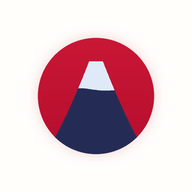
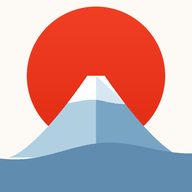
Selma peut joindre ses billets, et nouvelle icône
Chaque billet accepte des images et des PDF. Les fichiers vont dans
IndexedDB — un PDF ne tient pas dans localStorage — donc ils
survivent à la fermeture de la page : elle peut déposer au fil des
semaines et tout envoyer d'un coup.

Le bouton d'envoi emporte les fichiers avec le récapitulatif via le
partage iOS, après avoir vérifié que le téléphone sait le faire ;
sinon il envoie le texte seul en le disant.

Icône : le Fuji bleu et sa neige devant le soleil rouge, dessiné
pour l'occasion.

diff --git a/selma.html b/selma.html
@@ -76,6 +76,22 @@ h2.sec{display:flex;align-items:center;gap:11px;font-family:var(--serif);font-si
 .choix button[data-v="oui"][aria-pressed="true"]{background:linear-gradient(135deg,var(--matcha),#8FAE7C)}
 .choix button[data-v="non"][aria-pressed="true"]{background:linear-gradient(135deg,var(--momiji),var(--kaki))}
 .choix button[data-v="?"][aria-pressed="true"]{background:linear-gradient(135deg,var(--ai),var(--ai2))}
+.joindre{display:inline-flex;align-items:center;gap:7px;margin-top:11px;font:600 13px var(--sans);
+  padding:9px 14px;border-radius:999px;border:1px dashed var(--line);background:var(--paper2);
+  color:var(--ai2);cursor:pointer;transition:transform .18s var(--ease)}
+.joindre:active{transform:scale(.95)}
+.joindre svg{width:14px;height:14px}
+.fichiers{display:flex;flex-direction:column;gap:6px;margin-top:10px}
+.fichiers:empty{display:none}
+.fichier{display:flex;align-items:center;gap:10px;font-size:12.5px;background:var(--line2);
+  border-radius:12px;padding:8px 10px}
+.fichier .vig{width:32px;height:32px;border-radius:8px;flex:none;object-fit:cover;display:block}
+.fichier .pdf{width:32px;height:32px;border-radius:8px;flex:none;display:grid;place-items:center;
+  background:var(--momiji);color:#fff;font:700 9.5px var(--sans)}
+.fichier .nom{flex:1;min-width:0;overflow:hidden;text-overflow:ellipsis;white-space:nowrap;color:var(--ink)}
+.fichier .po{flex:none;color:var(--mute);font-size:11.5px}
+.fichier button{flex:none;background:none;border:0;color:var(--mute);cursor:pointer;
+  font:400 19px/1 var(--sans);padding:0 3px}
 textarea{width:100%;margin-top:10px;font:400 13.5px/1.5 var(--sans);color:var(--ink);background:var(--paper2);
   border:1px solid var(--line);border-radius:13px;padding:10px 12px;resize:vertical;min-height:40px}
 textarea::placeholder{color:var(--mute)}
@@ -175,17 +191,66 @@ textarea:focus{outline:2px solid color-mix(in srgb,var(--ai2) 45%,transparent);o
     {id:'p12', q:"Le voyage se termine bien le 3 novembre ?", d:"Stippl affiche le voyage jusqu'au 6 novembre."}
   ];
 
+  // Un PDF ne tient pas dans localStorage : les pièces jointes vont dans IndexedDB,
+  // qui garde de vrais fichiers et survit à la fermeture de la page.
+  var BASE = null, FICHIERS = [], VIGNETTES = {};
+  function base() {
+    if (BASE) return Promise.resolve(BASE);
+    return new Promise(function (ok, ko) {
+      var r = indexedDB.open('japon-billets', 1);
+      r.onupgradeneeded = function () { r.result.createObjectStore('f', {keyPath: 'id'}); };
+      r.onsuccess = function () { BASE = r.result; ok(BASE); };
+      r.onerror = function () { ko(r.error); };
+    });
+  }
+  function coffre(mode) {
+    return base().then(function (d) { return d.transaction('f', mode).objectStore('f'); });
+  }
+  function ajouterFichier(billet, f) {
+    return coffre('readwrite').then(function (c) {
+      return new Promise(function (ok, ko) {
+        var r = c.add({id: billet + '|' + Date.now() + '|' + Math.random().toString(36).slice(2, 7),
+                       billet: billet, nom: f.name, type: f.type, taille: f.size, blob: f});
+        r.onsuccess = function () { ok(); }; r.onerror = function () { ko(r.error); };
+      });
+    });
+  }
+  function listerFichiers() {
+    return coffre('readonly').then(function (c) {
+      return new Promise(function (ok) { var r = c.getAll(); r.onsuccess = function () { ok(r.result || []); }; r.onerror = function () { ok([]); }; });
+    }).catch(function () { return []; });
+  }
+  function retirerFichier(id) {
+    return coffre('readwrite').then(function (c) {
+      return new Promise(function (ok) { var r = c.delete(id); r.onsuccess = ok; r.onerror = ok; });
+    });
+  }
+  var poids = function (o) { return o < 1024 ? o + ' o' : o < 1048576 ? Math.round(o/1024) + ' Ko' : (o/1048576).toFixed(1) + ' Mo'; };
+  var pieces = function (id) { return FICHIERS.filter(function (f) { return f.billet === id; }); };
+
   var etat = {};
   try { etat = JSON.parse(localStorage.getItem(CLE) || '{}') || {}; } catch (e) { etat = {}; }
   var garder = function () { try { localStorage.setItem(CLE, JSON.stringify(etat)); } catch (e) {} };
 
   function rendre() {
     $('#billets').innerHTML = BILLETS.map(function (b) {
-      var ok = etat[b.id] === 'oui';
+      var jointes = pieces(b.id), ok = etat[b.id] === 'oui' || jointes.length > 0;
+      var liste = jointes.map(function (f) {
+        var vig = /^image\//.test(f.type || '')
+          ? '<img class="vig" alt="" src="' + (VIGNETTES[f.id] || '') + '">'
+          : '<span class="pdf">PDF</span>';
+        return '<div class="fichier">' + vig + '<span class="nom">' + esc(f.nom) + '</span>' +
+          '<span class="po">' + poids(f.taille) + '</span>' +
+          '<button type="button" data-retirer="' + esc(f.id) + '" aria-label="Retirer">×</button></div>';
+      }).join('');
       return '<div class="carte' + (ok ? ' fait' : '') + '" data-c="' + b.id + '">' +
         '<h3>' + esc(b.titre) + '</h3><div class="quand">' + esc(b.quand) + '</div>' +
-        '<div class="choix"><button type="button" data-id="' + b.id + '" data-v="oui" aria-pressed="' + ok + '">Je l’ai</button>' +
-        '<button type="button" data-id="' + b.id + '" data-v="non" aria-pressed="' + (etat[b.id] === 'non') + '">Pas encore</button></div></div>';
+        '<div class="choix"><button type="button" data-id="' + b.id + '" data-v="oui" aria-pressed="' + (etat[b.id] === 'oui') + '">Je l’ai</button>' +
+        '<button type="button" data-id="' + b.id + '" data-v="non" aria-pressed="' + (etat[b.id] === 'non') + '">Pas encore</button></div>' +
+        '<label class="joindre"><input type="file" accept="image/*,application/pdf" multiple hidden data-pour="' + b.id + '">' +
+        '<svg viewBox="0 0 24 24" fill="none" stroke="currentColor" stroke-width="2.1" stroke-linecap="round"><path d="M12 5.5v13M5.5 12h13"/></svg>' +
+        (jointes.length ? 'Ajouter un autre fichier' : 'Joindre le billet') + '</label>' +
+        '<div class="fichiers">' + liste + '</div></div>';
     }).join('') || '<div class="carte"><h3>Aucun billet à suivre pour l’instant.</h3></div>';
 
     $('#points').innerHTML = POINTS.map(function (p) {
@@ -201,7 +266,7 @@ textarea:focus{outline:2px solid color-mix(in srgb,var(--ai2) 45%,transparent);o
     }).join('');
 
     var total = BILLETS.length + POINTS.length;
-    var faits = BILLETS.filter(function (b) { return etat[b.id]; }).length +
+    var faits = BILLETS.filter(function (b) { return etat[b.id] || pieces(b.id).length; }).length +
                 POINTS.filter(function (p) { return p.libre ? (etat[p.id + '-n'] || '').trim() : etat[p.id]; }).length;
     $('#barre').style.width = total ? (faits / total * 100) + '%' : '0';
     $('#compte').innerHTML = '<b>' + faits + '</b> sur ' + total + ' renseigné' + (faits > 1 ? 's' : '');
@@ -216,6 +281,22 @@ textarea:focus{outline:2px solid color-mix(in srgb,var(--ai2) 45%,transparent);o
     garder();
     var y = window.scrollY; rendre(); window.scrollTo(0, y);
   });
+  document.addEventListener('change', function (ev) {
+    var inp = ev.target.closest('input[type=file][data-pour]');
+    if (!inp || !inp.files || !inp.files.length) return;
+    var pour = inp.dataset.pour, fs = [].slice.call(inp.files);
+    inp.value = '';
+    Promise.all(fs.map(function (f) { return ajouterFichier(pour, f); }))
+      .then(function () { etat[pour] = 'oui'; garder(); return rafraichir(); })
+      .catch(function () { $('#etat').textContent = 'Ce fichier n’a pas pu être gardé'; });
+  });
+
+  document.addEventListener('click', function (ev) {
+    var b = ev.target.closest('button[data-retirer]');
+    if (!b) return;
+    retirerFichier(b.dataset.retirer).then(rafraichir);
+  });
+
   document.addEventListener('input', function (ev) {
     var t = ev.target.closest('textarea[data-note]');
     if (!t) return;
@@ -234,7 +315,9 @@ textarea:focus{outline:2px solid color-mix(in srgb,var(--ai2) 45%,transparent);o
     L.push('BILLETS');
     BILLETS.forEach(function (b) {
       var r = etat[b.id];
-      L.push((r === 'oui' ? '[x] ' : r === 'non' ? '[ ] ' : '[?] ') + b.titre + ' — ' + b.quand);
+      var j = pieces(b.id);
+      L.push((r === 'oui' || j.length ? '[x] ' : r === 'non' ? '[ ] ' : '[?] ') + b.titre + ' — ' + b.quand +
+             (j.length ? '  (' + j.length + ' fichier' + (j.length > 1 ? 's' : '') + ' joint' + (j.length > 1 ? 's' : '') + ')' : ''));
     });
     L.push('', 'POINTS À TRANCHER');
     POINTS.forEach(function (p) {
@@ -244,17 +327,31 @@ textarea:focus{outline:2px solid color-mix(in srgb,var(--ai2) 45%,transparent);o
       L.push('• ' + p.q);
       L.push('  → ' + rep + (!p.libre && n ? ' — ' + n : ''));
     });
-    L.push('', 'Les billets suivent dans la conversation.');
+    L.push('', FICHIERS.length
+      ? FICHIERS.length + ' billet' + (FICHIERS.length > 1 ? 's' : '') + ' joint' + (FICHIERS.length > 1 ? 's' : '') + ' à ce message.'
+      : 'Les billets suivent dans la conversation.');
     return L.join('\n');
   }
 
   $('#envoyer').addEventListener('click', function () {
     var texte = recap();
     var dire = function (m) { $('#etat').textContent = m; setTimeout(function () { $('#etat').textContent = ''; }, 4000); };
+    var titre = 'To-do Selma — Japon 2026';
     if (navigator.share) {
-      navigator.share({title: 'To-do Selma — Japon 2026', text: texte})
-        .then(function () { dire('Envoyé, merci !'); })
-        .catch(function (e) { if (e && e.name !== 'AbortError') dire('Envoi annulé'); });
+      var fichiers = FICHIERS.map(function (f) {
+        return new File([f.blob], f.nom, {type: f.type || 'application/octet-stream'});
+      });
+      // Tous les téléphones ne savent pas partager des fichiers : on vérifie avant d'essayer.
+      var avecF = fichiers.length > 0 && navigator.canShare &&
+                  navigator.canShare({files: fichiers, text: texte, title: titre});
+      navigator.share(avecF ? {files: fichiers, text: texte, title: titre} : {text: texte, title: titre})
+        .then(function () { dire(avecF ? 'Envoyé avec les billets, merci !' : 'Envoyé — pense à joindre les billets'); })
+        .catch(function (e) {
+          if (!e || e.name === 'AbortError') return;
+          navigator.share({text: texte, title: titre}).then(
+            function () { dire('Envoyé — les billets n’ont pas suivi, joins-les au message'); },
+            function () { dire('Envoi impossible'); });
+        });
       return;
     }
     var montrer = function (m) {
@@ -269,7 +366,21 @@ textarea:focus{outline:2px solid color-mix(in srgb,var(--ai2) 45%,transparent);o
     } else { montrer('Le texte est en bas, déjà sélectionné'); }
   });
 
+  function rafraichir() {
+    return listerFichiers().then(function (fs) {
+      FICHIERS = fs;
+      Object.keys(VIGNETTES).forEach(function (k) {
+        if (!fs.some(function (f) { return f.id === k; })) { URL.revokeObjectURL(VIGNETTES[k]); delete VIGNETTES[k]; }
+      });
+      fs.forEach(function (f) {
+        if (/^image\//.test(f.type || '') && !VIGNETTES[f.id]) VIGNETTES[f.id] = URL.createObjectURL(f.blob);
+      });
+      var y = window.scrollY; rendre(); window.scrollTo(0, y);
+    });
+  }
+
   rendre();
+  rafraichir();
 })();
 </script>
 </body>

diff --git a/sw.js b/sw.js
@@ -1,6 +1,6 @@
 // Garde l'app disponible hors ligne (métro, avion…).
 // Changez VERSION à chaque mise à jour pour forcer le rafraîchissement.
-const VERSION = 'japon-v15';
+const VERSION = 'japon-v16';
 const FILES = ['./', 'index.html', 'installer.html', 'selma.html', 'app.js', 'data.js', 'icones-apps.js', 'manifest.webmanifest', 'icon-192.png', 'icon-512.png'];
 
 self.addEventListener('install', e => e.waitUntil(
